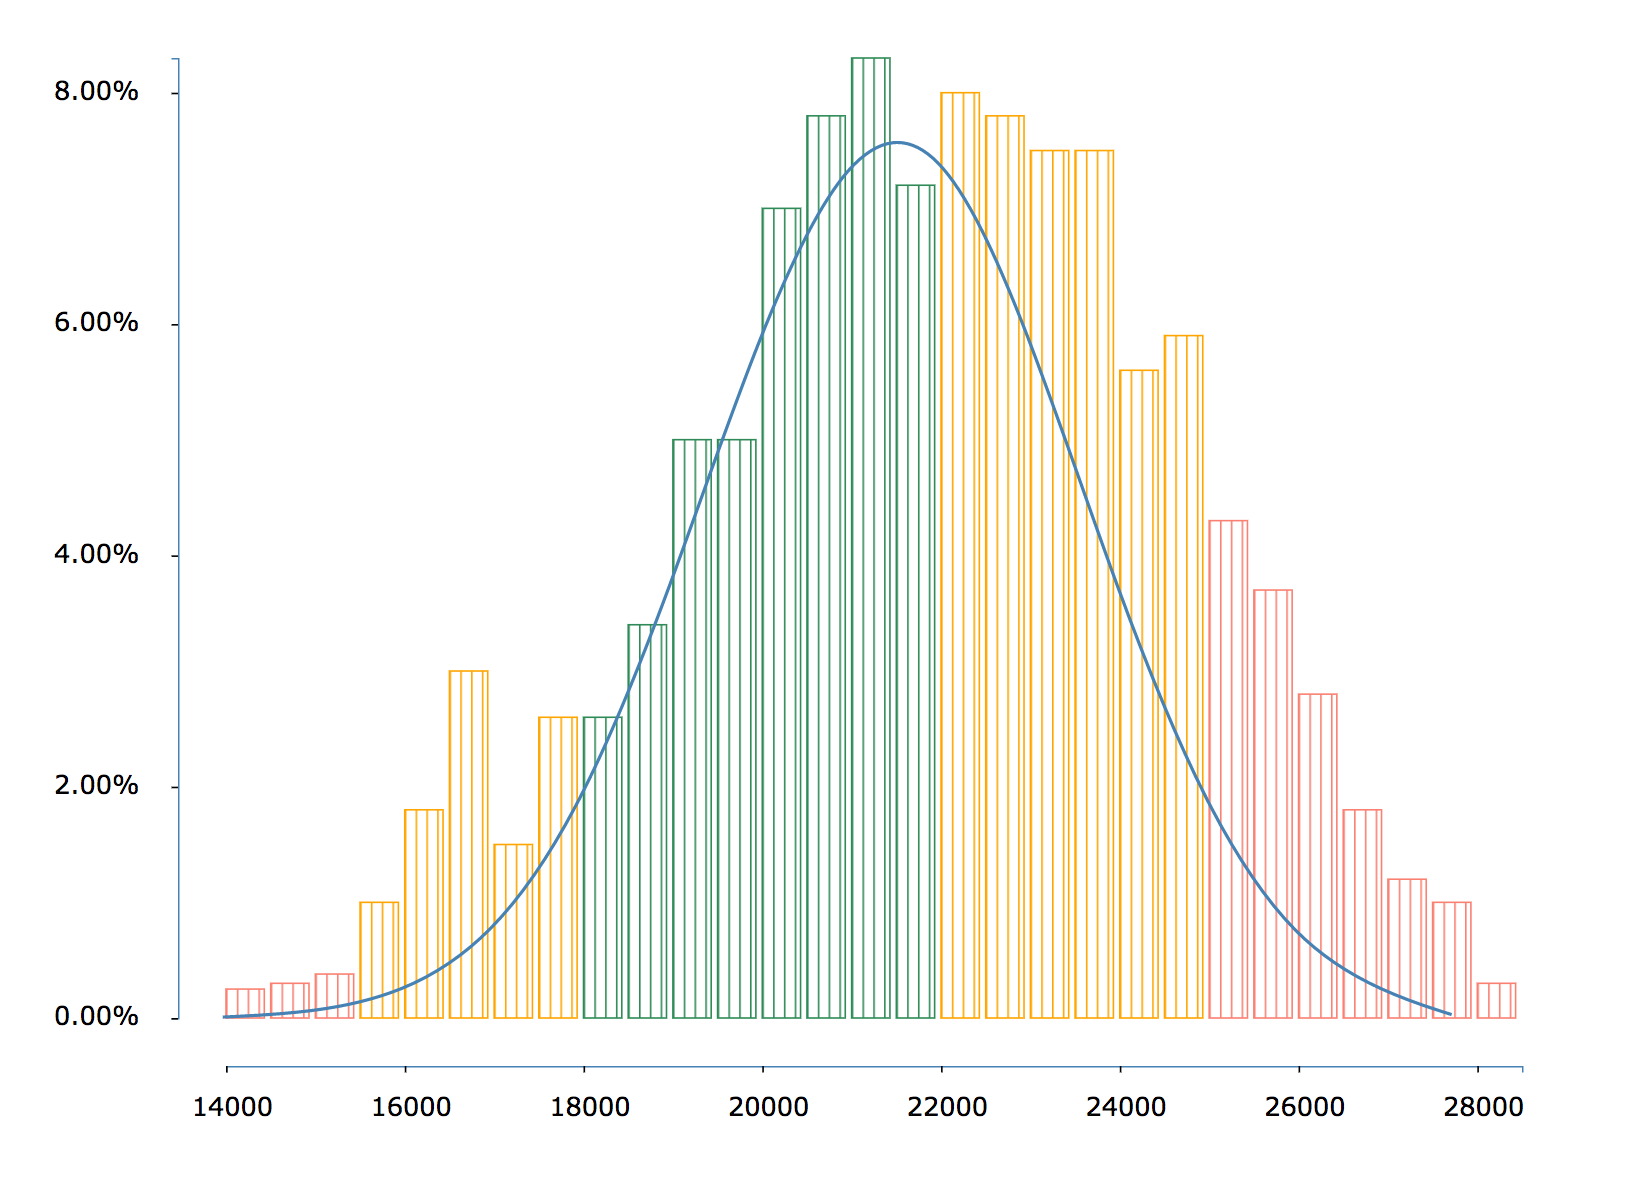
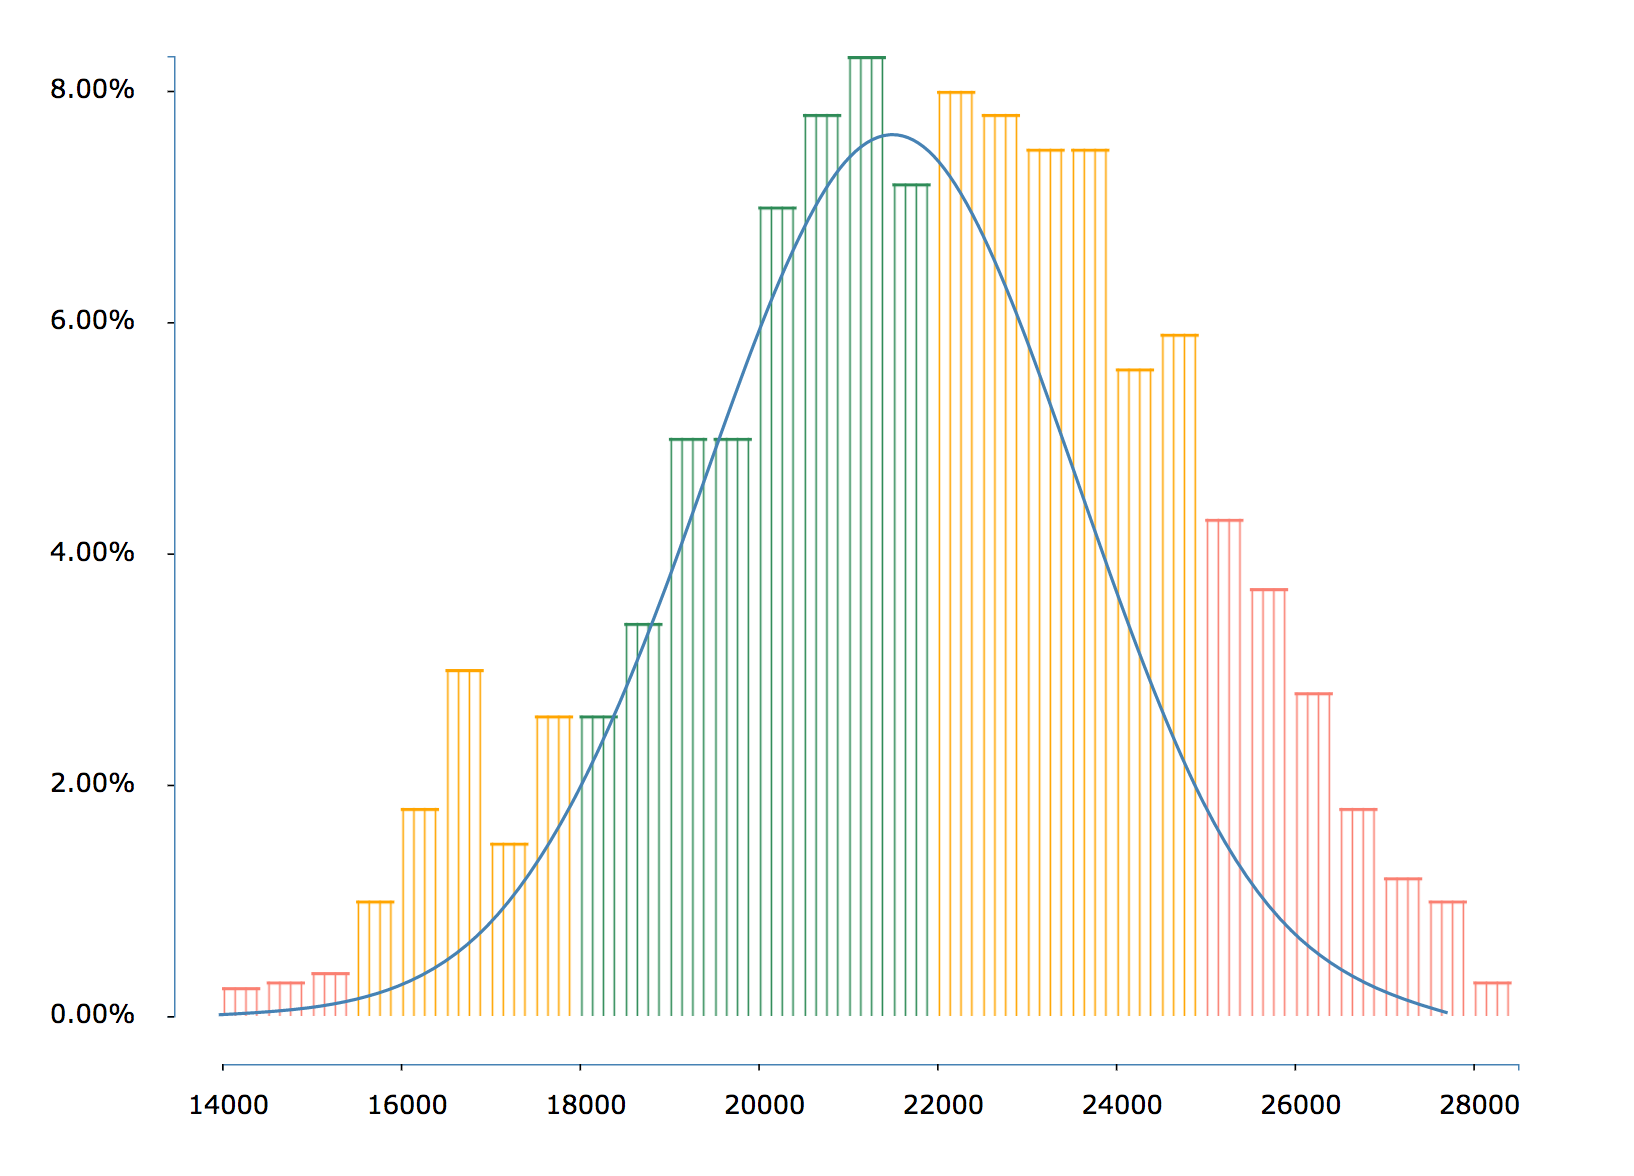
optimize metabolism

diff --git a/lib/metabolism.js b/lib/metabolism.js
@@ -40,9 +40,9 @@ export function metabolism(parent, config) {
 
 
 
-    vPattern(svg, [0, 4], 4, 27, 'salmon');
-    vPattern(svg, [0, 4], 4, 27, 'orange');
-    vPattern(svg, [0, 4], 4, 27, 'seagreen');
+    vPattern(svg, 4, 27, 'salmon');
+    vPattern(svg, 4, 27, 'orange');
+    vPattern(svg, 4, 27, 'seagreen');
 
 
     var yArr = baseConf.data.map((e, i) => (e.y));
@@ -120,13 +120,6 @@ export function metabolism(parent, config) {
 
     bar.append("rect")
         .attr("x", 100)
-        .attr('stroke', (e, i) => {
-            if (e.x[0] < baseConf.gap[0]) return 'salmon';
-            if (e.x[0] < baseConf.gap[1]) return 'orange';
-            if (e.x[0] < baseConf.gap[2]) return 'seagreen';
-            if (e.x[0] < baseConf.gap[3]) return 'orange';
-            return 'salmon';
-        })
         .attr('fill', (e, i) => {
             let color='salmon';
 
@@ -137,7 +130,7 @@ export function metabolism(parent, config) {
 
             return 'url(#vpattern-' + color + ')'
         })
-        .attr('stroke-width', 1)
+        // .attr('stroke-width', 1)
         .attr("width", x(14500) - x(14000) - 4)
         .attr("height", function(d) {
             return height - y(d.y);
@@ -166,7 +159,6 @@ export function metabolism(parent, config) {
         .thresholds(x.ticks(20))
         (data);
 
-    console.log(bins);
 
     g.append("path")
         .datum(bins)
@@ -175,6 +167,8 @@ export function metabolism(parent, config) {
         .attr('stroke-width', 2)
         .attr("d", line);
 
+
+// console.log(d3.range(0,1,0.5))
 
 
 

diff --git a/lib/utils/detect.js b/lib/utils/detect.js
@@ -52,20 +52,29 @@ export function pattern(svg, inter = [30, 35], percent = 40, width = 400) {
     return ptn
 }
 
-export function vPattern(svg, inter = [30, 35], percent = 40, width = 27, color = 'steelblue') {
+export function vPattern(svg, percent = 40, width = 27, color = 'steelblue') {
     var ptn = svg.append('defs')
         .append('pattern')
-        .attr('id', 'vpattern-'+color)
+        .attr('id', 'vpattern-' + color)
         .attr('x', '0')
         .attr('y', '0')
         .attr('width', '1')
-        .attr('height', '1')
-        .selectAll('rect').data(d3.range(0, 1, 1 / percent))
+        .attr('height', '1');
+
+    ptn.append('rect')
+        .attr('width', width)
+        .attr('fill', color)
+        .attr('height', 2);
+
+    ptn.selectAll('rect').data(d3.range(0, 1, 1 / percent).concat(0))
         .enter()
         .append('rect')
         .attr('width', 1)
         .attr('height', 1000)
-        .attr('x', (d, i) => (d * width))
+        .attr('x', (d, i) => {
+            return d * width
+        })
+        .attr('x', (d, i) => (d * width + 1))
         .attr('y', 0)
         .attr('fill', (d, i) => {
             return color
